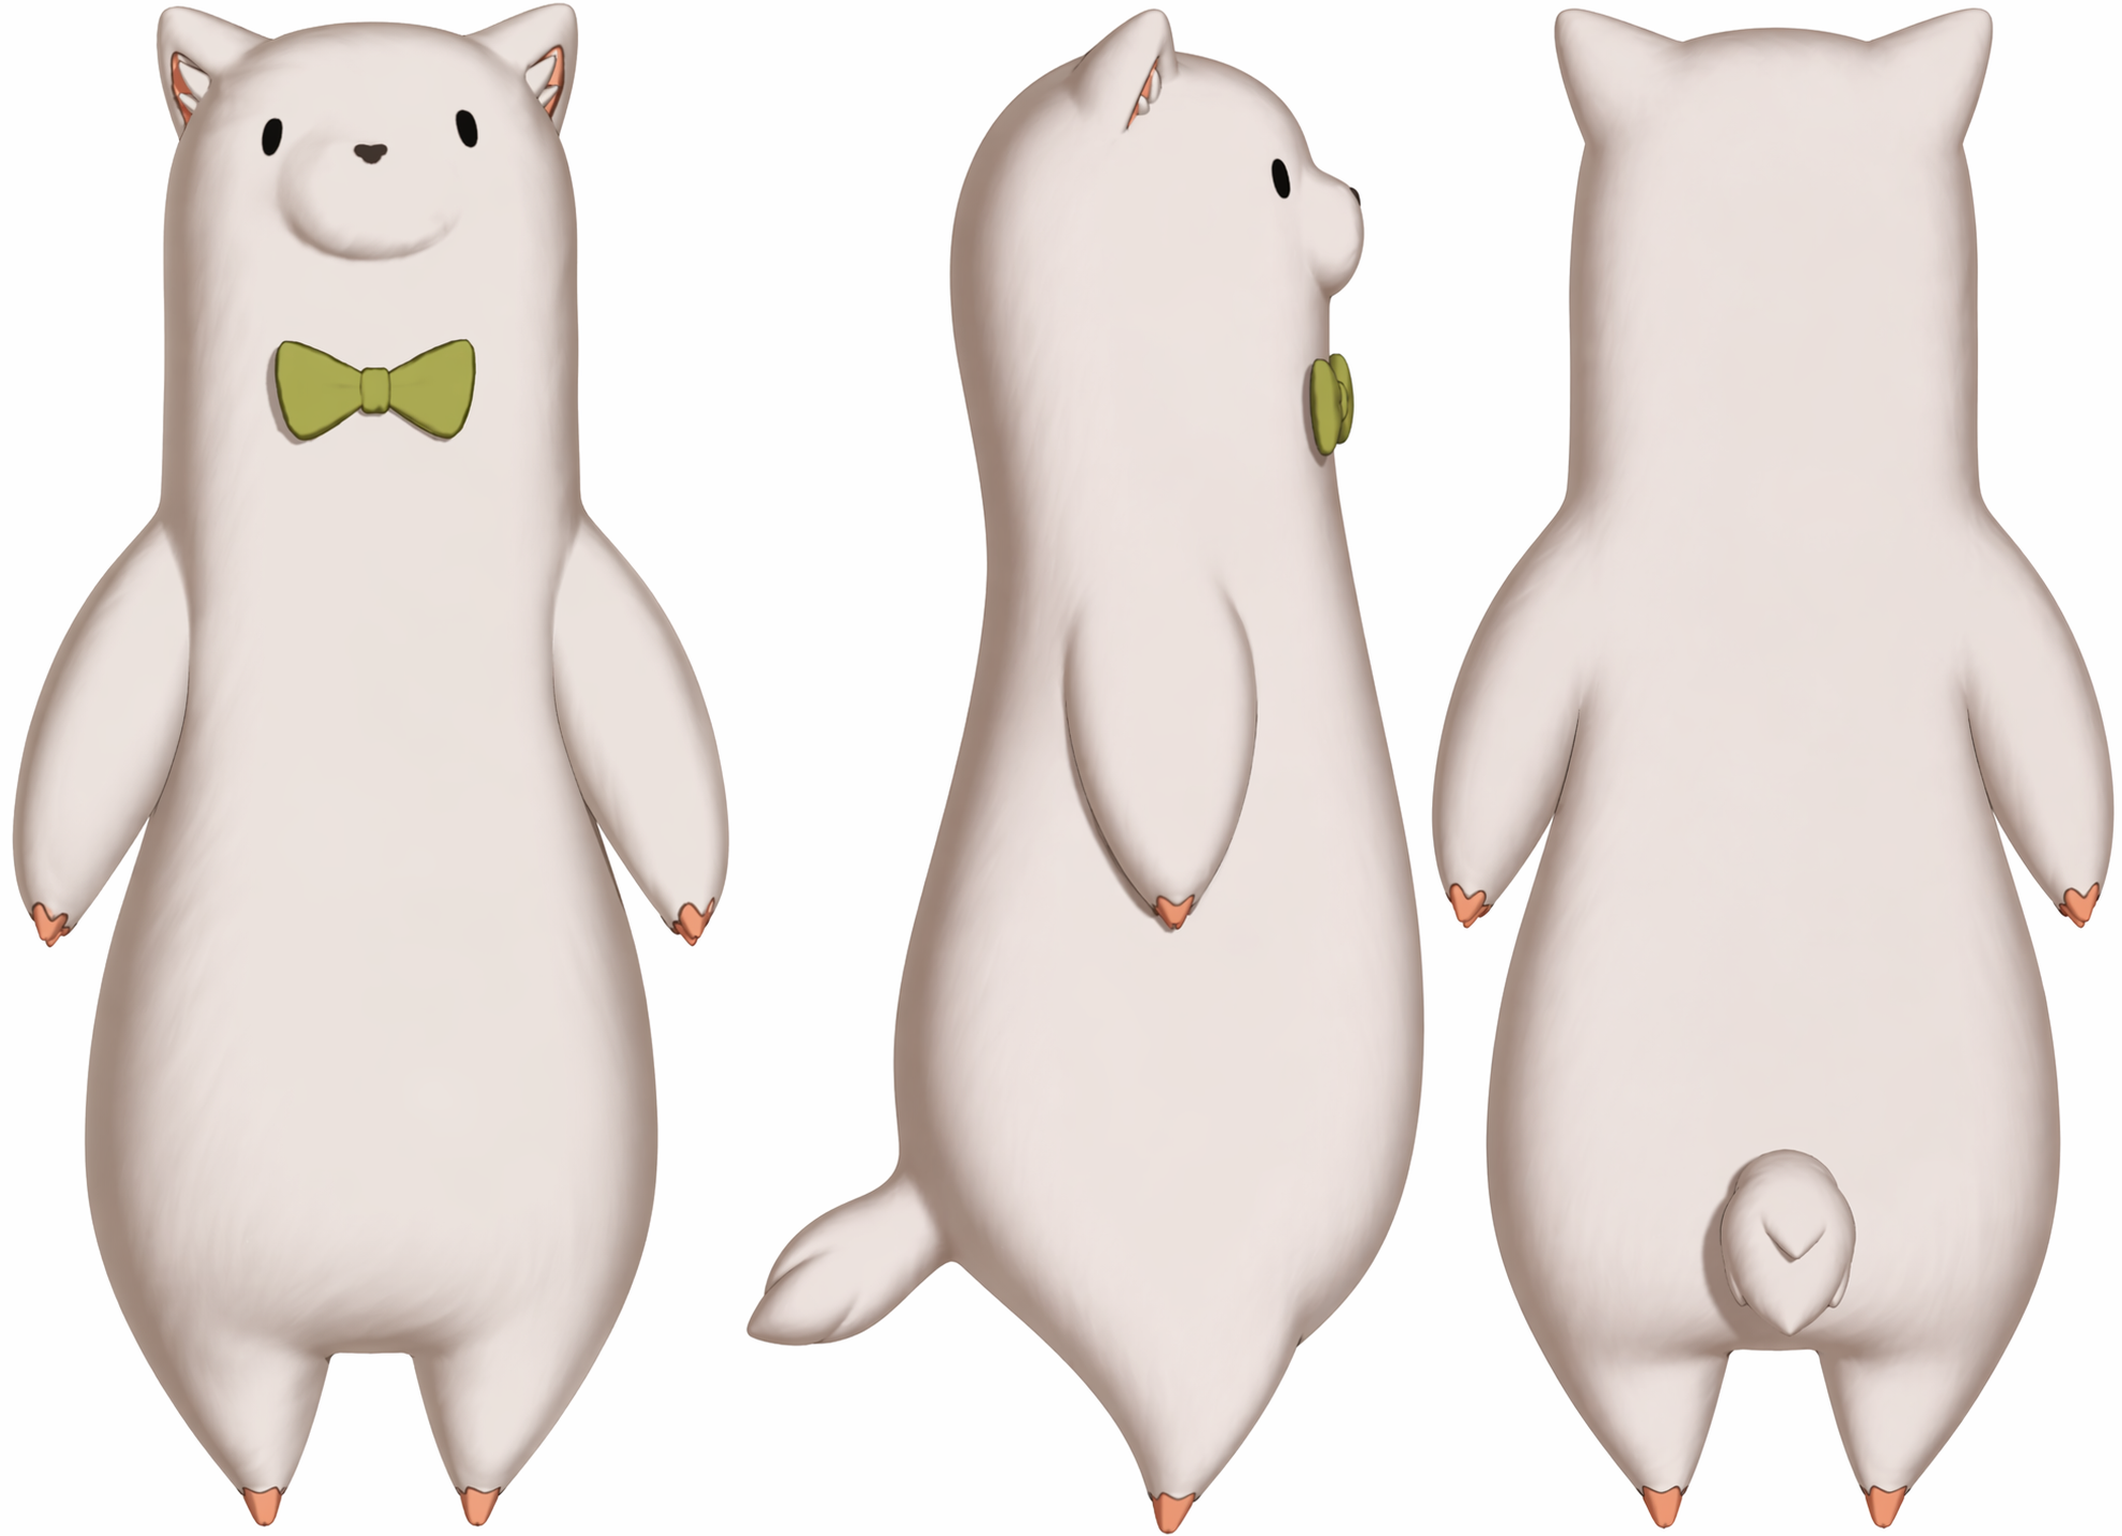
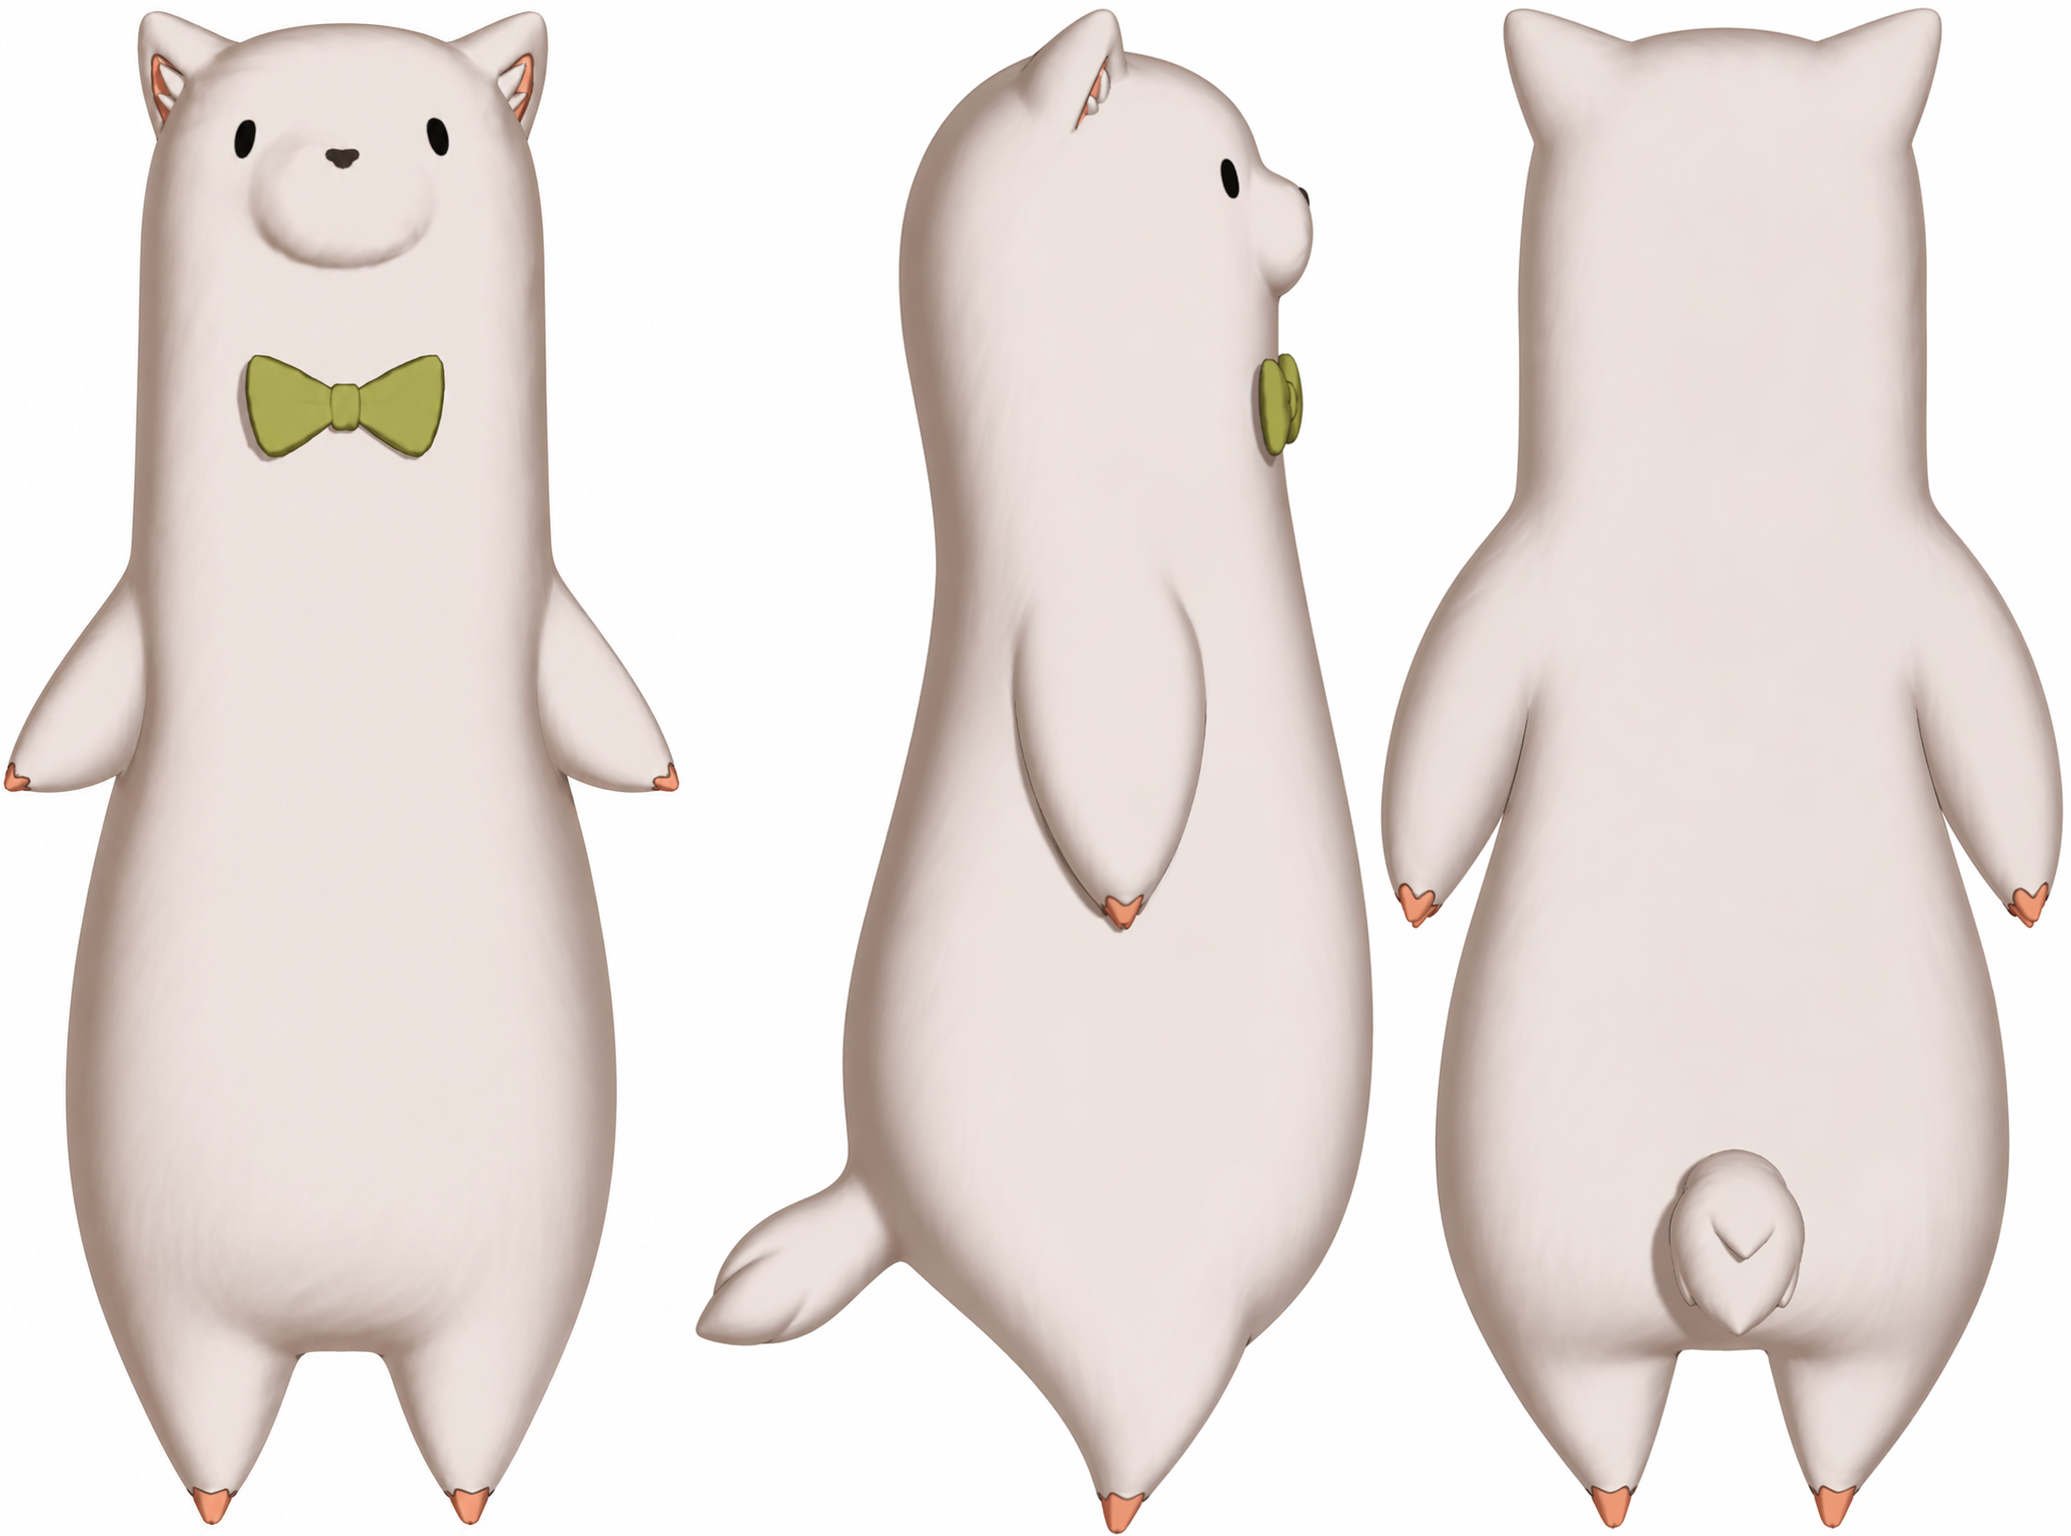
update

diff --git a/content/other/index.md b/content/other/index.md
@@ -5,4 +5,6 @@ resources:
   - src: 贝极星.png
     params:
       cover: true
+  - src: 锅子.png
+    title: "因为视频模糊无法完美复刻，随机生成的大概样子"
 ---
